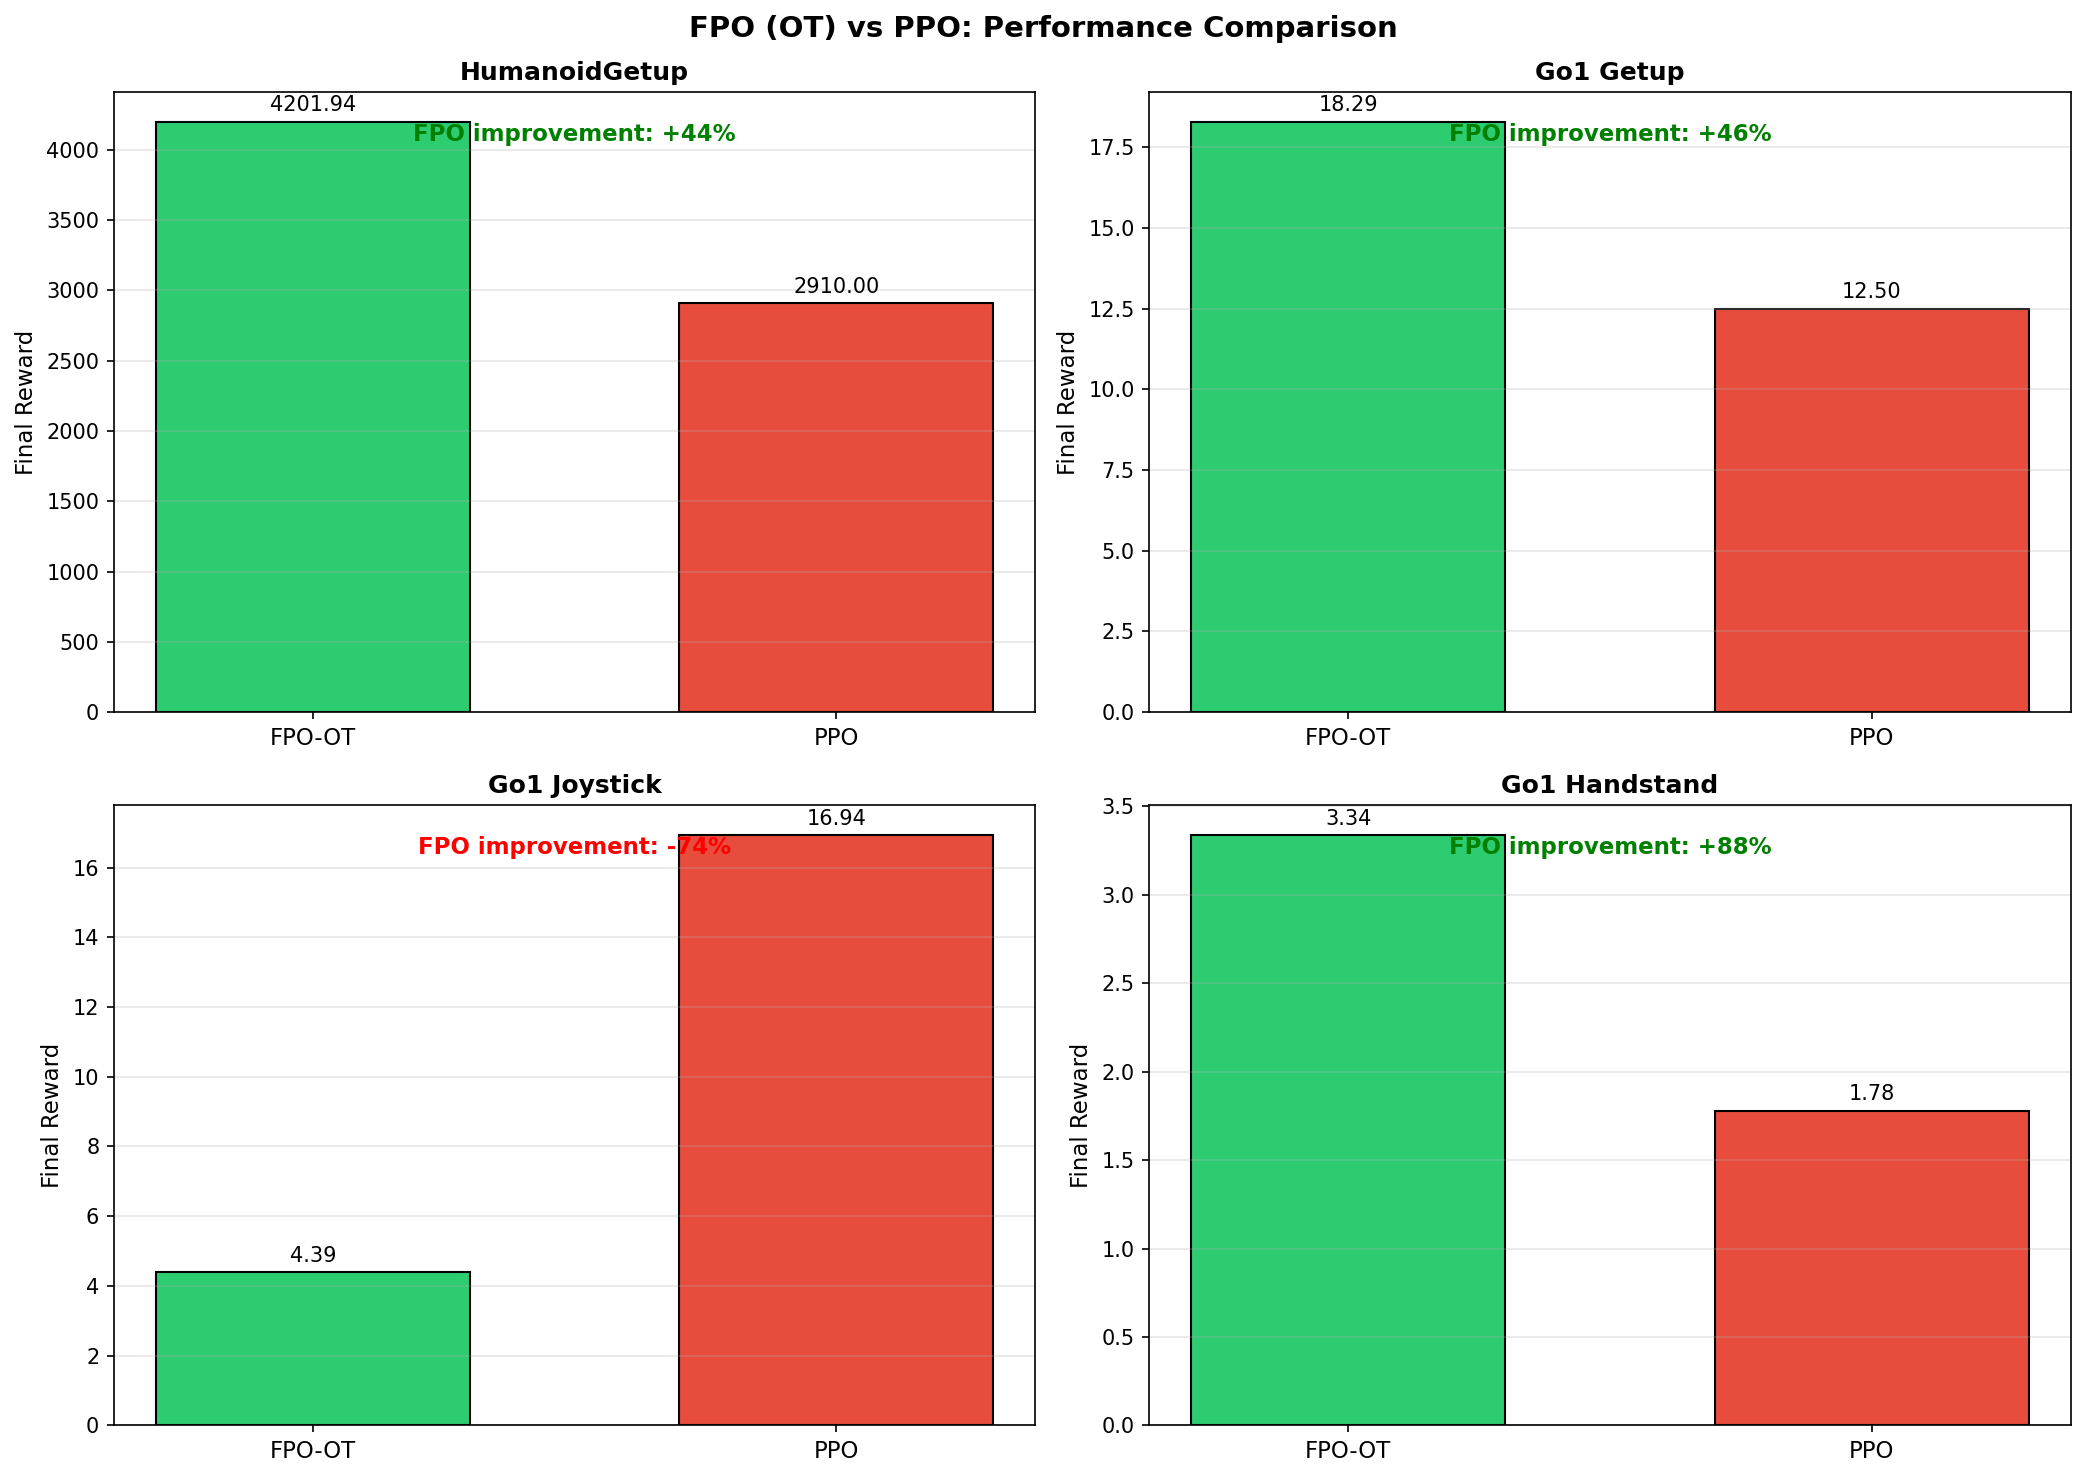
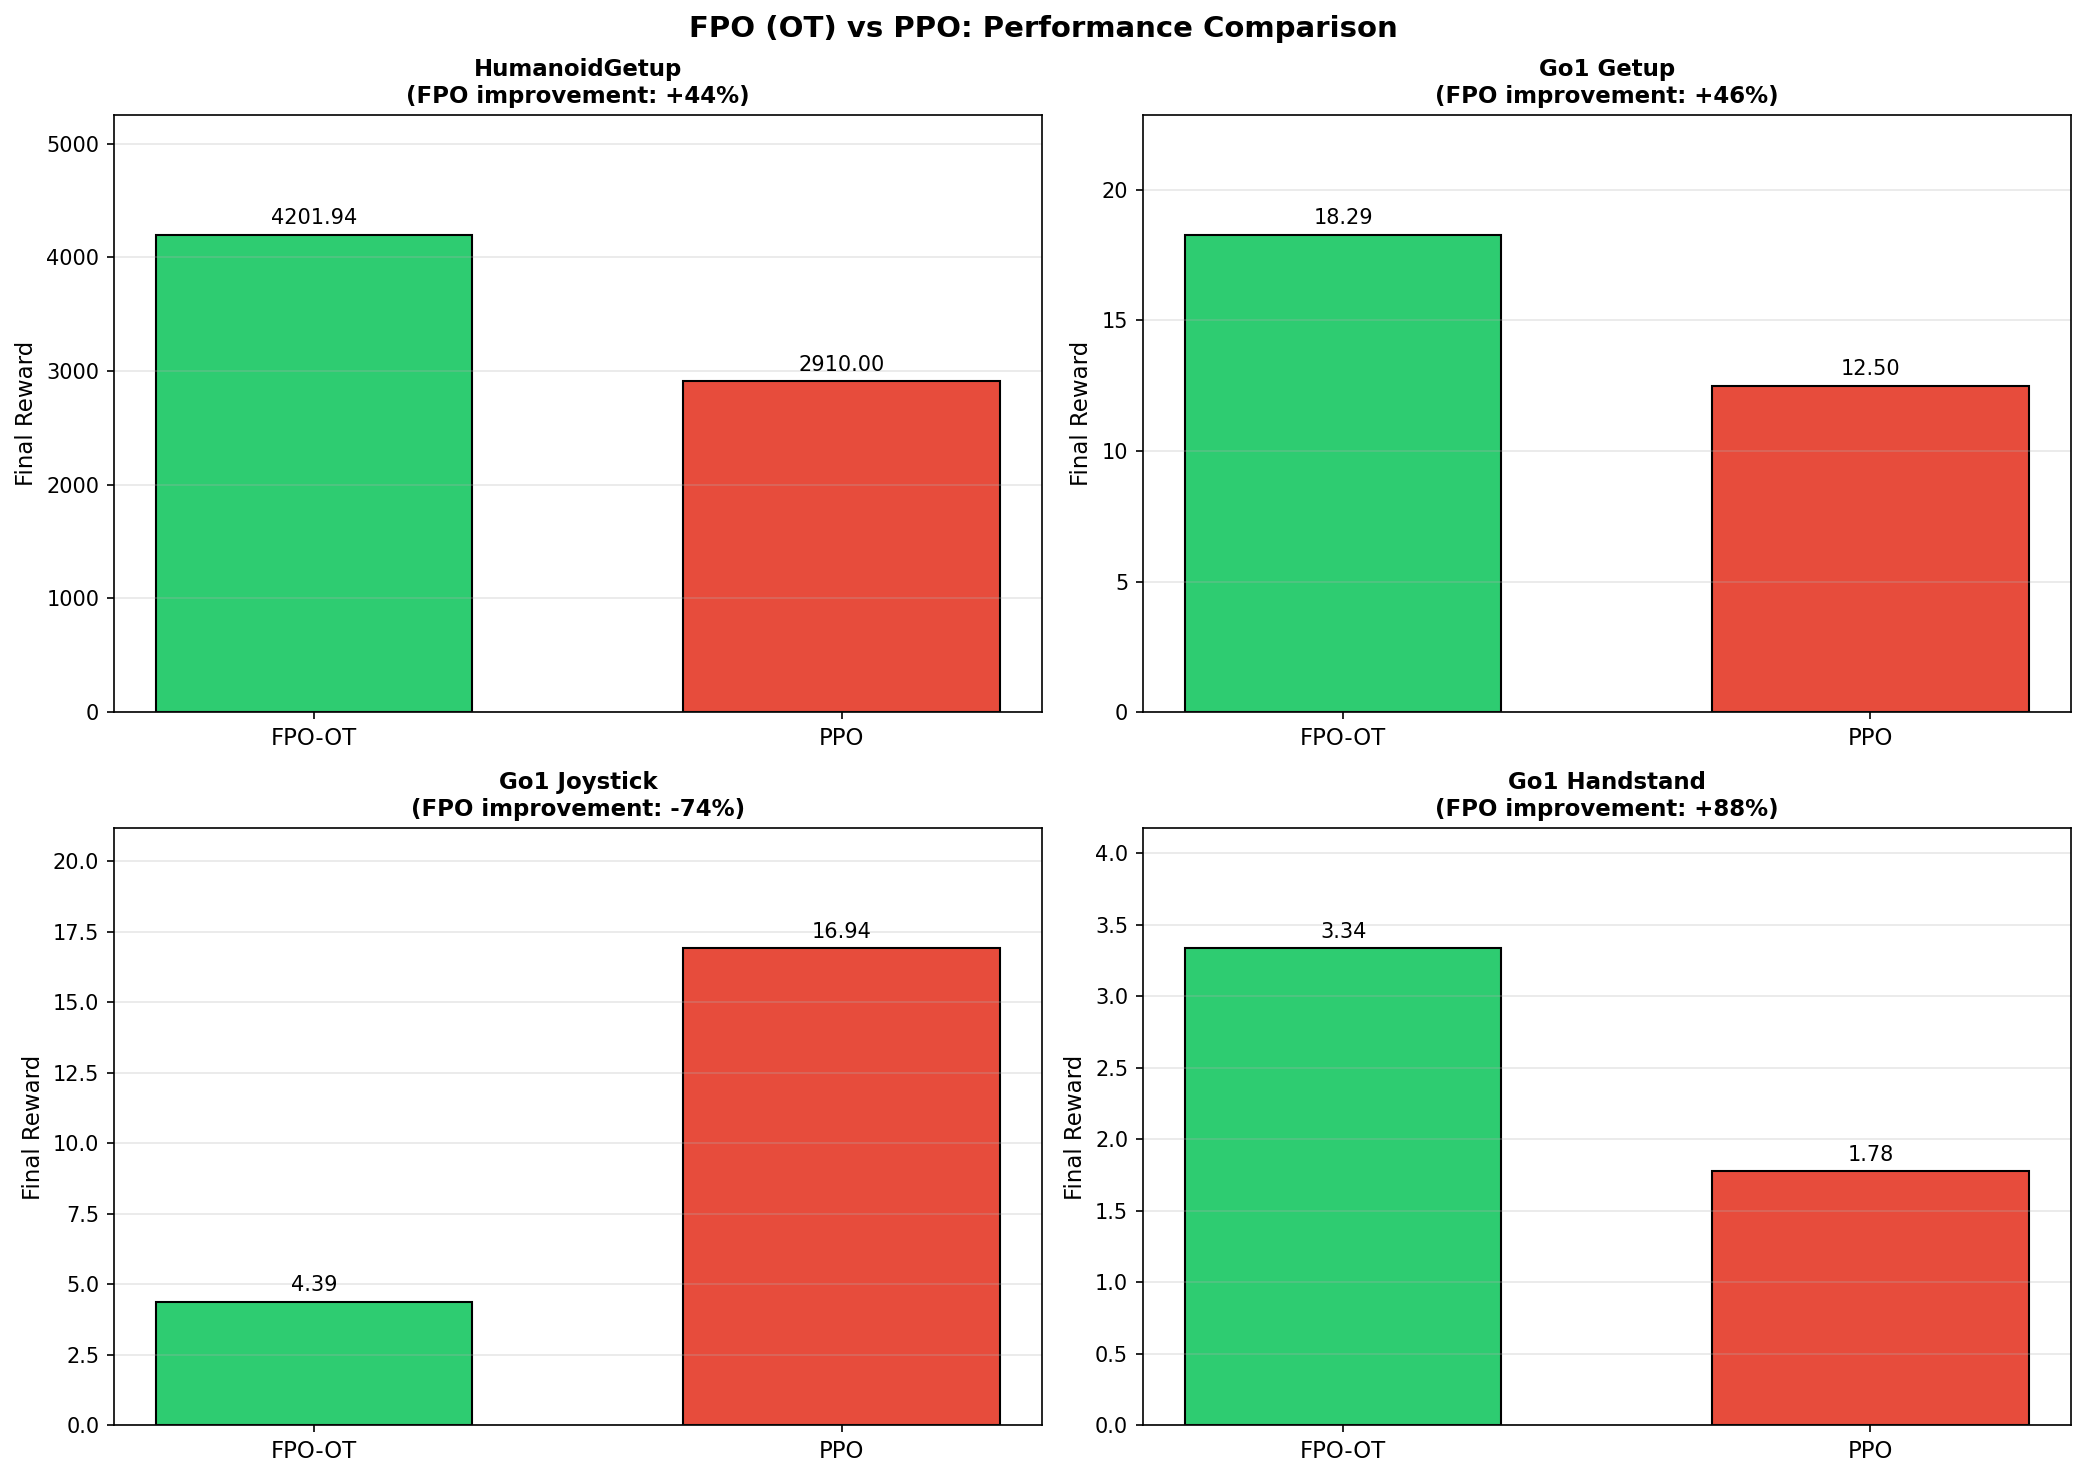
Fix Figure 10 label overlap: extend Y-axis and move improvement text to title
- Set Y-axis limit to 125% of max value to prevent label overlap
- Move improvement percentage text from plot area to subtitle
- Regenerated all plots with cleaner layout

🤖 Generated with [Claude Code](https://claude.com/claude-code)

diff --git a/update_all_plots.py b/update_all_plots.py
@@ -237,6 +237,10 @@ for idx, env in enumerate(envs):
     color = 'green' if imp > 0 else 'red'
     text = f'+{imp:.0f}%' if imp > 0 else f'{imp:.0f}%'
 
+    # Set y-axis limit to leave room for labels (20% extra space)
+    max_reward = max(rewards)
+    ax.set_ylim(0, max_reward * 1.25)
+
     # Add value labels on bars
     for bar, r in zip(bars, rewards):
         height = bar.get_height()
@@ -246,12 +250,9 @@ for idx, env in enumerate(envs):
                    textcoords="offset points",
                    ha='center', va='bottom', fontsize=10)
 
-    # Add improvement text at top
-    ax.text(0.5, 0.95, f'FPO improvement: {text}', transform=ax.transAxes,
-            ha='center', va='top', fontsize=11, color=color, fontweight='bold')
-
     ax.set_ylabel('Final Reward', fontsize=11)
-    ax.set_title(env, fontsize=12, fontweight='bold')
+    # Include improvement in title
+    ax.set_title(f'{env}\n(FPO improvement: {text})', fontsize=11, fontweight='bold', color='black')
     ax.set_xticks(x)
     ax.set_xticklabels(labels, fontsize=11)
     ax.grid(axis='y', alpha=0.3)
